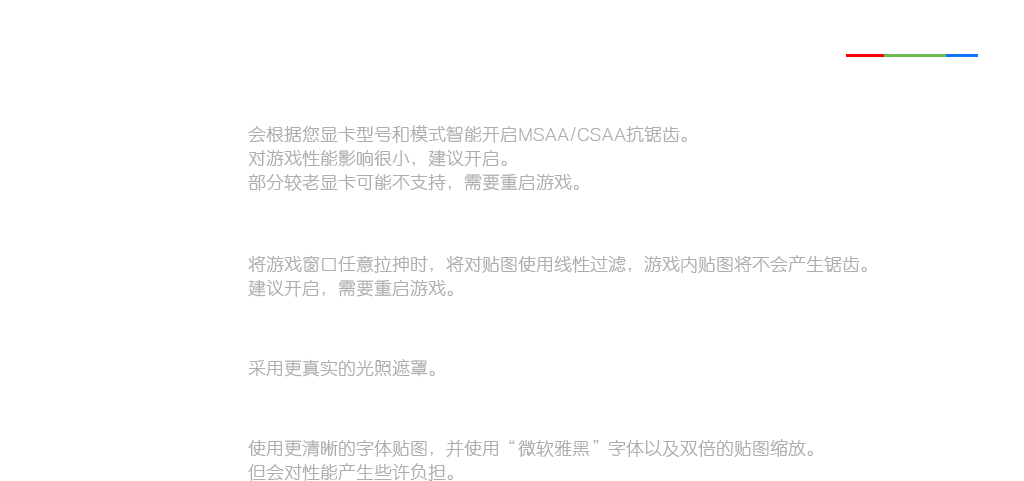
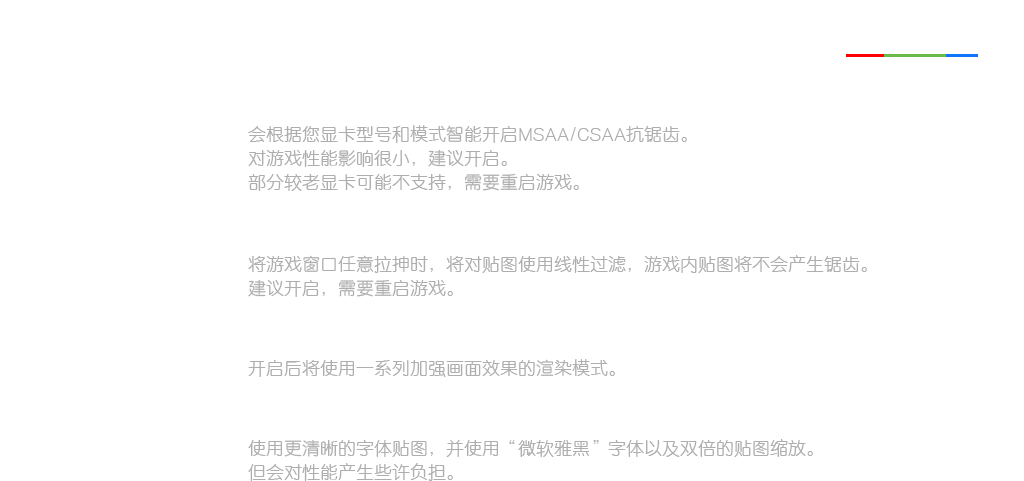
new setting on system menu

Changed region(s): [[0.25, 0.7484, 0.5938, 0.7796]]

diff --git a/src/com/rpsg/rpg/view/GameViews.java b/src/com/rpsg/rpg/view/GameViews.java
@@ -1,15 +1,12 @@
 package com.rpsg.rpg.view;
 
-import shaders.DiffuseShader;
 
 import com.badlogic.gdx.ApplicationListener;
 import com.badlogic.gdx.Gdx;
 import com.badlogic.gdx.graphics.GL20;
-import com.badlogic.gdx.graphics.Pixmap;
 import com.badlogic.gdx.graphics.Texture;
 import com.badlogic.gdx.graphics.g2d.SpriteBatch;
 import com.badlogic.gdx.graphics.g2d.TextureRegion;
-import com.badlogic.gdx.graphics.glutils.ShaderProgram;
 import com.bitfire.postprocessing.PostProcessor;
 import com.bitfire.postprocessing.effects.Bloom;
 import com.bitfire.postprocessing.effects.CameraMotion;
@@ -17,14 +14,11 @@ import com.bitfire.postprocessing.effects.Vignette;
 import com.rpsg.rpg.core.Setting;
 import com.rpsg.rpg.io.Input;
 import com.rpsg.rpg.object.base.Global;
-import com.rpsg.rpg.system.base.Res;
 import com.rpsg.rpg.system.controller.HoverController;
-import com.rpsg.rpg.system.ui.Image;
 import com.rpsg.rpg.utils.display.AlertUtil;
 import com.rpsg.rpg.utils.display.GameViewRes;
 import com.rpsg.rpg.utils.display.MouseUtil;
 import com.rpsg.rpg.utils.display.RadarUtil;
-import com.rpsg.rpg.utils.display.ScreenUtil;
 import com.rpsg.rpg.utils.display.SelectUtil;
 import com.rpsg.rpg.utils.display.TipUtil;
 import com.rpsg.rpg.utils.game.GameUtil;
@@ -79,8 +73,8 @@ public class GameViews implements ApplicationListener {
 		RadarUtil.init(1, new TextureRegion(new Texture(Gdx.files.internal(Setting.GAME_RES_IMAGE_MENU_STATUS+"propbg.png"))), 1);
 		TimeUtil.init();
 		selectUtil=new SelectUtil();
-		Logger.info("Gdx-RPG引擎初始化成功。");
 		
+		Logger.info("创建视觉效果中。");
 		post=new PostProcessor(false, true, true);
 		bloom=new Bloom((int)(Gdx.graphics.getWidth() * 0.25f), (int)(Gdx.graphics.getHeight() * 0.25f));
 		bloom.setBaseIntesity(1.2f);
@@ -98,6 +92,8 @@ public class GameViews implements ApplicationListener {
 		motion.setBlurPasses(10);
 		motion.setDepthScale(0);
 		post.addEffect(motion);
+		
+		Logger.info("Gdx-RPG引擎初始化成功。");
 	}
 
 	@Override

diff --git a/src/com/rpsg/rpg/view/GameView.java b/src/com/rpsg/rpg/view/GameView.java
@@ -14,7 +14,6 @@ import com.badlogic.gdx.scenes.scene2d.*;
 import com.bitfire.postprocessing.PostProcessor;
 import com.bitfire.postprocessing.effects.Bloom;
 import com.bitfire.postprocessing.effects.CameraMotion;
-import com.bitfire.postprocessing.filters.Blur.BlurType;
 import com.rpsg.rpg.core.Setting;
 import com.rpsg.rpg.io.Input;
 import com.rpsg.rpg.object.base.Global;
@@ -106,14 +105,15 @@ public class GameView extends View{
 		
 		motion.setBlurScale(Input.isPress(Keys.CONTROL_LEFT)?0.0035f:0);
 		
-		if(null==stackView || stackView.viewStack.size()==0)
+		boolean postEnable=Setting.persistence.betterLight &&(null==stackView || stackView.viewStack.size()==0);
+		if(postEnable)
 			post.capture();
 		
 		DistantController.draw((SpriteBatch)stage.getBatch(),this);
 		
 		MapController.draw(this);
 		
-		if(null==stackView || stackView.viewStack.size()==0)
+		if(postEnable)
 			post.render();
 		
 		ColorUtil.draw(batch);
@@ -121,7 +121,8 @@ public class GameView extends View{
 		DrawController.draw(batch);
 		ThreadPool.logic();
 		
-		ColorUtil.drawhover(batch);
+		if(postEnable)
+			ColorUtil.drawhover(batch);
 		
 		if(null!=stackView)
 			stackView.draw(batch);

diff --git a/src/com/bitfire/postprocessing/PostProcessor.java b/src/com/bitfire/postprocessing/PostProcessor.java
@@ -25,7 +25,6 @@ import com.badlogic.gdx.graphics.glutils.FrameBuffer;
 import com.badlogic.gdx.math.Rectangle;
 import com.badlogic.gdx.utils.Array;
 import com.badlogic.gdx.utils.Disposable;
-import com.bitfire.postprocessing.effects.CameraMotion;
 import com.bitfire.postprocessing.utils.PingPongBuffer;
 import com.bitfire.utils.ItemsManager;
 
@@ -41,7 +40,7 @@ public final class PostProcessor implements Disposable {
 
 	private static PipelineState pipelineState = null;
 	private static Format fbFormat;
-	private final PingPongBuffer composite;
+	public final PingPongBuffer composite;
 	private TextureWrap compositeWrapU;
 	private TextureWrap compositeWrapV;
 	private final ItemsManager<PostProcessorEffect> effectsManager = new ItemsManager<PostProcessorEffect>();
@@ -391,7 +390,8 @@ public final class PostProcessor implements Disposable {
 			Gdx.app.log("PostProcessor", "No post-processor effects enabled, aborting render");
 		}
 	}
-
+	
+	
 	/** Convenience method to render to screen. */
 	public void render () {
 		render(null);

diff --git a/src/com/rpsg/rpg/system/controller/MapController.java b/src/com/rpsg/rpg/system/controller/MapController.java
@@ -11,10 +11,9 @@ import java.util.List;
 
 
 
+
 import box2dLight.PointLight;
 
-import com.badlogic.gdx.Gdx;
-import com.badlogic.gdx.graphics.GL20;
 import com.badlogic.gdx.graphics.Texture.TextureFilter;
 import com.badlogic.gdx.graphics.g2d.SpriteBatch;
 import com.badlogic.gdx.maps.MapLayer;
@@ -146,7 +145,6 @@ public class MapController {
 			drawlist.clear();
 			gv.render.setView(gv.camera);
 			
-			Gdx.gl20.glBlendFunc(GL20.GL_ONE, GL20.GL_ZERO);
 			gv.render.render(new int[]{i});
 			
 			SpriteBatch sb=(SpriteBatch) gv.stage.getBatch();
@@ -164,7 +162,6 @@ public class MapController {
 				ir.draw(sb, 1f);
 				sb.end();
 			}
-			
 			
 		}
 //		System.out.println(HeroControler.getHeadHero().getX()+" "+HeroControler.getHeadHero().getY()+" "+gv.camera.position.x+" "+gv.camera.position.y+" "+HeroControler.getHeadHero().mapx+" "+HeroControler.getHeadHero().mapy);

diff --git a/src/com/rpsg/rpg/utils/display/ScreenUtil.java b/src/com/rpsg/rpg/utils/display/ScreenUtil.java
@@ -8,12 +8,9 @@ import com.badlogic.gdx.graphics.Pixmap;
 import com.badlogic.gdx.graphics.Pixmap.Format;
 import com.badlogic.gdx.graphics.g2d.TextureRegion;
 import com.badlogic.gdx.graphics.Texture;
-import com.badlogic.gdx.math.MathUtils;
 import com.badlogic.gdx.scenes.scene2d.Stage;
-import com.badlogic.gdx.utils.ScreenUtils;
 import com.rpsg.rpg.system.ui.Image;
 import com.rpsg.rpg.utils.game.GameUtil;
-import com.rpsg.rpg.view.GameViews;
 /**
  * 屏幕工具类 可以获取截图
  * @author 煞笔学生

diff --git a/src/com/rpsg/rpg/utils/display/MouseUtil.java b/src/com/rpsg/rpg/utils/display/MouseUtil.java
@@ -2,16 +2,10 @@ package com.rpsg.rpg.utils.display;
 
 import java.awt.AWTException;
 import java.awt.Robot;
-import java.nio.IntBuffer;
 
-import org.lwjgl.BufferUtils;
-import org.lwjgl.LWJGLException;
-import org.lwjgl.input.Mouse;
 import org.lwjgl.opengl.Display;
 
-import com.badlogic.gdx.Application.ApplicationType;
 import com.badlogic.gdx.Gdx;
-import com.badlogic.gdx.backends.lwjgl.LwjglApplication;
 import com.rpsg.rpg.utils.game.Logger;
 
 public class MouseUtil {

diff --git a/src/com/rpsg/rpg/system/base/TmxMapLoader.java b/src/com/rpsg/rpg/system/base/TmxMapLoader.java
@@ -118,6 +118,7 @@ public class TmxMapLoader extends BaseTmxMapLoader<TmxMapLoader.Parameters> {
 	 * @param fileName
 	 * @param parameter not used for now
 	 * @return dependencies for the given .tmx file */
+	@SuppressWarnings({ "rawtypes", "unchecked" })
 	@Override
 	public Array<AssetDescriptor> getDependencies (String fileName, FileHandle tmxFile, Parameters parameter) {
 		Array<AssetDescriptor> dependencies = new Array<AssetDescriptor>();

diff --git a/src/com/rpsg/rpg/utils/display/GameViewRes.java b/src/com/rpsg/rpg/utils/display/GameViewRes.java
@@ -6,7 +6,6 @@ import box2dLight.RayHandler;
 import com.badlogic.gdx.assets.AssetManager;
 import com.badlogic.gdx.graphics.OrthographicCamera;
 import com.badlogic.gdx.maps.tiled.TiledMap;
-import com.badlogic.gdx.math.Vector2;
 import com.badlogic.gdx.physics.box2d.World;
 import com.badlogic.gdx.scenes.scene2d.Stage;
 import com.rpsg.rpg.system.base.TmxMapLoader;

diff --git a/src/com/rpsg/rpg/io/SL.java b/src/com/rpsg/rpg/io/SL.java
@@ -6,9 +6,7 @@ import java.util.Date;
 
 import com.badlogic.gdx.Gdx;
 import com.badlogic.gdx.files.FileHandle;
-import com.badlogic.gdx.graphics.Pixmap;
 import com.badlogic.gdx.graphics.PixmapIO;
-import com.badlogic.gdx.graphics.PixmapIO.PNG;
 import com.rpsg.rpg.core.Setting;
 import com.rpsg.rpg.object.base.Global;
 import com.rpsg.rpg.object.base.SLData;

diff --git a/src/com/rpsg/rpg/utils/game/Logger.java b/src/com/rpsg/rpg/utils/game/Logger.java
@@ -3,8 +3,7 @@ package com.rpsg.rpg.utils.game;
 import com.badlogic.gdx.Application;
 import com.rpsg.rpg.core.Setting;
 
-public class Logger {
-	
+	public class Logger{
 	static com.badlogic.gdx.utils.Logger infolog;
 	static com.badlogic.gdx.utils.Logger errorlog;
 	static com.badlogic.gdx.utils.Logger faildlog;

diff --git a/src/com/rpsg/rpg/utils/display/ColorUtil.java b/src/com/rpsg/rpg/utils/display/ColorUtil.java
@@ -3,7 +3,6 @@ package com.rpsg.rpg.utils.display;
 
 import box2dLight.RayHandler;
 
-import com.badlogic.gdx.graphics.Texture;
 import com.badlogic.gdx.graphics.g2d.SpriteBatch;
 import com.rpsg.rpg.core.Setting;
 import com.rpsg.rpg.object.script.BaseScriptExecutor;

diff --git a/src/com/rpsg/rpg/system/controller/DistantController.java b/src/com/rpsg/rpg/system/controller/DistantController.java
@@ -1,7 +1,5 @@
 package com.rpsg.rpg.system.controller;
 
-import org.lwjgl.opengl.Display;
-
 import com.badlogic.gdx.graphics.OrthographicCamera;
 import com.badlogic.gdx.graphics.g2d.SpriteBatch;
 import com.badlogic.gdx.maps.tiled.TiledMapTileLayer;
